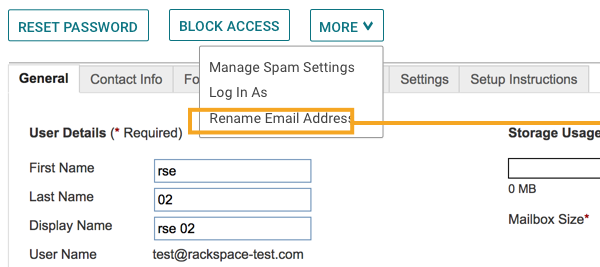
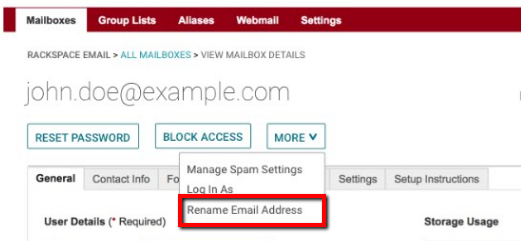
added images

diff --git a/content/rackspace-email/rename-a-rackspace-email-mailbox.md b/content/rackspace-email/rename-a-rackspace-email-mailbox.md
@@ -40,9 +40,13 @@ If the mailbox is set up in a [local email client](/how-to/cloud-office-support-
 
 5. A window will appear asking for the new email address. Enter the **NEW EMAIL** address name, then click **Rename Email Address**.
 
+    <img src="{% asset_path rackspace-email/rename-a-rackspace-email-mailbox/rename-pop-up-SC1.png %}" />
+
     - Note: `This email address is already taken`, means the address is already in use as an alias, group list, distribution list, or as a Microsoft Exchange mailbox on this domain. Try a different address.
 
 6. A confirmation message will appear, displaying the old email address and the new email address. If the change is correct, click **OK**.
+
+    <img src="{% asset_path rackspace-email/rename-a-rackspace-email-mailbox/success-message.png %}" />
 
 You have successfully renamed a Rackspace Email mailbox!
 
